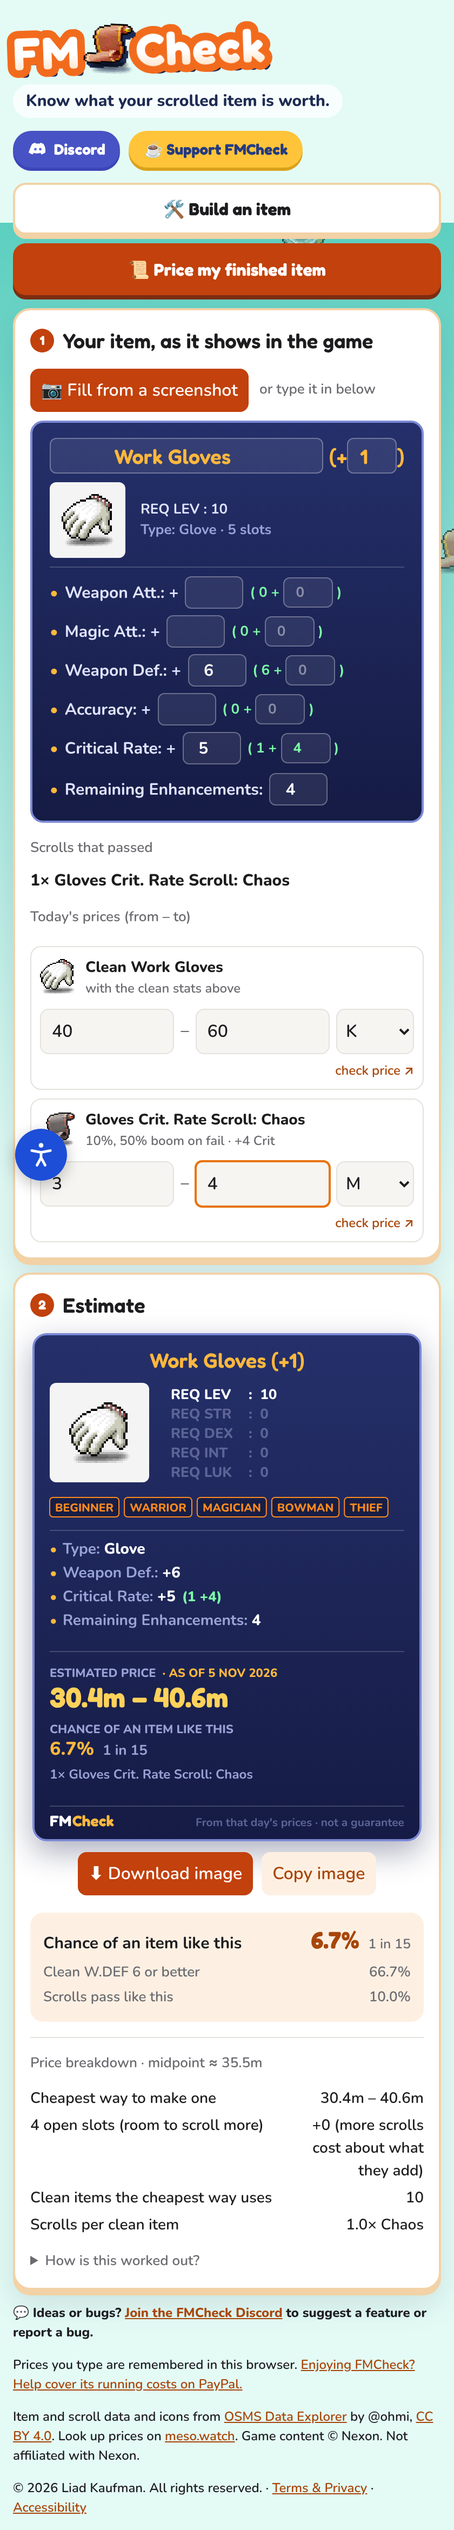
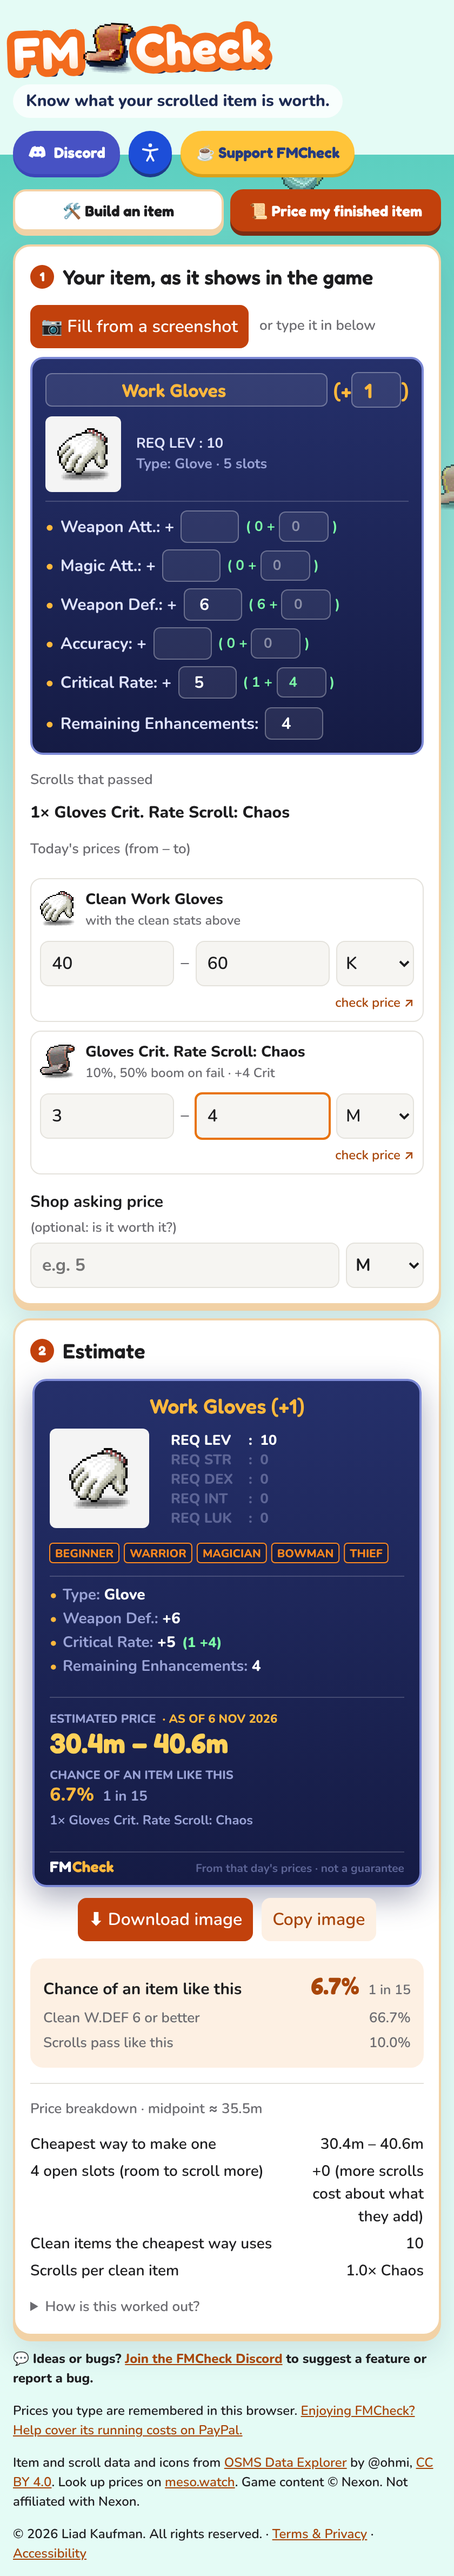
Finished items from photos: sturdier reading, suggestions, phone layout
- Screenshots are read up to three ways (auto, high-contrast, as-is) and
  the richest reading wins.
- Without a readable name, the item is picked from its stats only when
  the type also matches; otherwise 'Did you mean' suggestions are shown,
  and stats read before the item is known are filled in once it's picked.
- Fixed: stats were parsed after use, so readings without a name failed.
- Phones: tabs on one row; the accessibility button moved into the
  header row so it no longer covers text.

Claude-Session: https://claude.ai/code/session_01YWJchjg2KLfMMoYE3h5SnD

Changed region(s): [[0.0, 0.0, 1.0, 0.9983], [0.9595, 0.156, 1.0, 0.2496], [0.8667, 0.4056, 0.9286, 0.4368]]

diff --git a/js/reader.js b/js/reader.js
@@ -38,21 +38,19 @@ export function parseTooltip(text, equips) {
   }
   let confidence = item ? 1 : 0;
   if (!item) {
-    const title = lines.find((l) => /\(\s*\+\s*\d+\s*\)/.test(l)) || lines[0] || "";
-    const t = norm(title.replace(/\(.*$/, ""));
-    for (const e of equips) {
-      const s = similar(t, norm(e[1]));
-      if (s > confidence) { confidence = s; item = e; }
+    const titled = lines.filter((l) => /\(\s*\+\s*\d+\s*\)/.test(l));
+    for (const title of (titled.length ? titled : lines.slice(0, 4))) {
+      const t = norm(title.replace(/\(.*$/, ""));
+      if (t.length < 4) continue;
+      for (const e of equips) {
+        const sc = similar(t, norm(e[1]));
+        if (sc > confidence) { confidence = sc; item = e; }
+      }
     }
-    if (confidence < 0.45) item = null;
+    if (confidence < 0.45) { item = null; confidence = 0; }
   }
 
-  const upgrades = (() => { const m = lines.join(" ").match(/\(\s*\+\s*(\d{1,2})\s*\)/); return m ? +m[1] : null; })();
-  const left = (() => {
-    const m = lines.join(" ").match(/(?:remaining\s*enhance\w*|upgrades?\s*avail\w*|slots?\s*left)\D{0,6}(\d{1,2})/i);
-    return m ? +m[1] : null;
-  })();
-
+  // Stats first (needed below to guess the item when its name can't be read).
   const stats = {};
   for (const line of lines) {
     if (/^req|remaining|type\s*:/i.test(line)) continue;
@@ -66,7 +64,39 @@ export function parseTooltip(text, equips) {
     const gain = m[3] != null ? +m[3] : 0;
     stats[label[1]] = { total, base, gain };
   }
-  return { item, upgrades, left, stats, confidence };
+
+  // No name: rank the items whose own stats fit the clean values read. Pick one only when it's clear
+  // (two or more stats fit and the text names its type, e.g. "Type: Gloves"); otherwise offer suggestions.
+  let suggestions = [];
+  if (!item && Object.keys(stats).length) {
+    const own = Object.entries(stats).filter(([k]) => !["ACC", "EVA", "Speed", "Jump", "MAD"].includes(k) || stats[k].base);
+    const fits = [];
+    for (const e of equips) {
+      const base = e[5] || {};
+      let fit = 0, ok = true;
+      for (const [k, v] of own) {
+        if (!base[k]) { if (v.base) { ok = false; break; } continue; }
+        const range = Math.min(Math.ceil(base[k] * 0.1), ["PDD", "MDD", "MHP", "MMP"].includes(k) ? 10 : 5);
+        if (Math.abs(v.base - base[k]) > range) { ok = false; break; }
+        fit += 2 - Math.abs(v.base - base[k]) / (range || 1);
+      }
+      if (!ok || !fit) continue;
+      const typed = !!(e[3] && flat.includes(norm(e[3]))); // e.g. "Type: Glove"
+      fits.push({ e, fit: fit + (typed ? 3 : 0), typed });
+    }
+    fits.sort((a, b) => b.fit - a.fit);
+    const top = fits[0];
+    if (top && top.typed && own.length >= 2 && (!fits[1] || fits[1].fit < top.fit)) { item = top.e; confidence = 0.6; }
+    else suggestions = fits.slice(0, 6).map((f) => f.e);
+  }
+
+  const upgrades = (() => { const m = lines.join(" ").match(/\(\s*\+\s*(\d{1,2})\s*\)/); return m ? +m[1] : null; })();
+  const left = (() => {
+    const m = lines.join(" ").match(/(?:remaining\s*enhance\w*|upgrades?\s*avail\w*|slots?\s*left)\D{0,6}(\d{1,2})/i);
+    return m ? +m[1] : null;
+  })();
+
+  return { item, upgrades, left, stats, confidence, suggestions };
 }
 
 // ---------- text recognition in the browser ----------
@@ -88,8 +118,8 @@ function loadTesseract() {
 }
 
 // Game tooltips are light text on a dark panel; recognition reads dark text on light best.
-// Scale up, turn grey, flip to dark-on-light when the picture is mostly dark, and stretch the contrast.
-async function prepare(file) {
+// Each pass prepares the picture differently: "auto" flips dark pictures, "flip"/"keep" force it, "sharp" adds a hard threshold.
+async function prepare(file, how = "auto") {
   const img = await createImageBitmap(file);
   const scale = Math.min(3, Math.max(1, 1600 / img.width));
   const c = document.createElement("canvas");
@@ -101,28 +131,43 @@ async function prepare(file) {
   const d = ctx.getImageData(0, 0, c.width, c.height), px = d.data;
   let sum = 0;
   for (let i = 0; i < px.length; i += 4) sum += 0.299 * px[i] + 0.587 * px[i + 1] + 0.114 * px[i + 2];
-  const dark = sum / (px.length / 4) < 128;
+  const mean = sum / (px.length / 4);
+  const flip = how === "flip" || how === "sharp" ? true : how === "keep" ? false : mean < 128;
   for (let i = 0; i < px.length; i += 4) {
     let g = 0.299 * px[i] + 0.587 * px[i + 1] + 0.114 * px[i + 2];
-    if (dark) g = 255 - g;
-    g = Math.max(0, Math.min(255, (g - 60) * 1.6));
+    if (flip) g = 255 - g;
+    g = how === "sharp" ? (g > 150 ? 255 : 0) : Math.max(0, Math.min(255, (g - 60) * 1.6));
     px[i] = px[i + 1] = px[i + 2] = g;
   }
   ctx.putImageData(d, 0, 0);
   return c;
 }
 
-// file: an image the user picked or took. onProgress(0..1, label). -> recognized text
-export async function readImage(file, onProgress = () => {}) {
+// How much a reading found (used to keep the best of several passes).
+export function richness(p) {
+  return (p.item ? 6 * (p.confidence || 1) : 0) + (p.upgrades != null ? 1 : 0) + (p.left != null ? 1 : 0) + Object.keys(p.stats).length;
+}
+
+// file: an image the user picked or took. parse(text) -> parsed reading. onProgress(0..1, label).
+// Tries up to three ways of preparing the picture and returns the richest reading: { text, parsed }.
+export async function readImage(file, parse, onProgress = () => {}) {
   onProgress(0.02, "Loading the text reader…");
   const T = await loadTesseract();
-  const canvas = await prepare(file);
-  const res = await T.recognize(canvas, "eng", {
-    logger: (m) => {
-      if (m.status === "recognizing text") onProgress(0.3 + 0.7 * m.progress, "Reading the item…");
-      else if (typeof m.progress === "number") onProgress(0.05 + 0.25 * m.progress, "Loading the text reader…");
-    },
-  });
+  const passes = ["auto", "sharp", "keep"];
+  let best = null;
+  for (let i = 0; i < passes.length; i++) {
+    const canvas = await prepare(file, passes[i]);
+    const res = await T.recognize(canvas, "eng", {
+      logger: (m) => {
+        if (m.status === "recognizing text") onProgress((i + m.progress) / passes.length, i ? "Trying again for a clearer read…" : "Reading the item…");
+        else if (!i && typeof m.progress === "number") onProgress(0.02 + 0.1 * m.progress, "Loading the text reader…");
+      },
+    });
+    const text = res.data.text || "";
+    const parsed = parse(text);
+    if (!best || richness(parsed) > richness(best.parsed)) best = { text, parsed };
+    if (best.parsed.item && best.parsed.confidence >= 0.8 && Object.keys(best.parsed.stats).length && best.parsed.left != null) break; // good enough
+  }
   onProgress(1, "Done");
-  return res.data.text || "";
+  return best;
 }

diff --git a/js/app.js b/js/app.js
@@ -1,8 +1,8 @@
-import { iconUrl, priceLink, DONATE_URL, DISCORD_URL } from "./config.js?v=1e2658a2";
-import { STATS, STAT_LABEL, statRange, rollAtLeast, inferScrolls, groupOdds, allocateFailures, finalStats, openSlotValue, cheapestRoute, failedItemValue, mesos, UNITS, readRange } from "./calc.js?v=1e2658a2";
-import { getPrice, setPrice } from "./prices.js?v=1e2658a2";
-import { parseTooltip, readImage } from "./reader.js?v=1e2658a2";
-import { drawCard, cardBlob } from "./card.js?v=1e2658a2";
+import { iconUrl, priceLink, DONATE_URL, DISCORD_URL } from "./config.js?v=fb79aca4";
+import { STATS, STAT_LABEL, statRange, rollAtLeast, inferScrolls, groupOdds, allocateFailures, finalStats, openSlotValue, cheapestRoute, failedItemValue, mesos, UNITS, readRange } from "./calc.js?v=fb79aca4";
+import { getPrice, setPrice } from "./prices.js?v=fb79aca4";
+import { parseTooltip, readImage } from "./reader.js?v=fb79aca4";
+import { drawCard, cardBlob } from "./card.js?v=fb79aca4";
 
 const $ = (id) => document.getElementById(id);
 const icon = iconUrl;
@@ -446,7 +446,7 @@ function update() {
 // The price estimate; returns { lo, hi } or null when it can't be worked out yet.
 function renderEstimate(used) {
   const out = $("estimate");
-  if (!cleanPrice) { out.innerHTML = `<p class="hint">Enter the clean item price (step 1) to get an estimate.</p>`; return null; }
+  if (!cleanPrice) { out.innerHTML = `<p class="hint">Enter the clean item price ${mode === "f" ? "above" : "(step 1)"} to get an estimate.</p>`; return null; }
 
   // What the item gained, per scroll family, and the scrolls the user entered (with a price).
   const needs = {};
@@ -645,6 +645,30 @@ function renderFinItem() {
   </div>`).join("");
 }
 
+// "Did you mean…" when the picture's item name couldn't be read.
+function renderSuggestions(list) {
+  const box = $("finSuggest");
+  box.innerHTML = list && list.length ? `<span class="label">Did you mean:</span> ${list.map((e) =>
+    `<button type="button" class="suggest" data-name="${esc(e[1])}"><img src="${icon(e[0])}" alt="" /> ${esc(e[1])}</button>`).join("")}` : "";
+}
+$("finSuggest").addEventListener("click", (e) => {
+  const b = e.target.closest(".suggest");
+  if (!b) return;
+  $("finName").value = b.dataset.name;
+  renderSuggestions([]);
+  onFinInput({ target: $("finName") });
+});
+
+// Put read values into the tooltip lines (those that exist for the current item).
+function fillFinStats(stats) {
+  for (const [k, v] of Object.entries(stats || {})) {
+    const line = $("finStats").querySelector(`.tt-line[data-k="${k}"]`);
+    if (!line) continue;
+    line.querySelector('[data-f="total"]').value = v.total;
+    line.querySelector('[data-f="gain"]').value = v.gain || "";
+  }
+}
+
 function readFin() {
   const num = (el) => (el && el.value !== "" ? Math.max(0, Math.floor(+el.value)) : null);
   const e = fin.item;
@@ -665,6 +689,8 @@ function onFinInput(e) {
     if (it === fin.item) return;
     fin.item = it;
     renderFinItem();
+    if (it) renderSuggestions([]);
+    if (it && fin.pending) { fillFinStats(fin.pending); fin.pending = null; } // stats read from a picture before the item was known
   }
   if (!fin.item) {
     $("finScrolls").innerHTML = `<p class="hint">Type the item's name as it shows in the game, then its stats.</p>`;
@@ -798,23 +824,23 @@ $("finFile").addEventListener("change", async (e) => {
   const st = $("finStatus"), prog = $("finProg");
   prog.hidden = false; prog.value = 0; st.textContent = "Reading your item…";
   try {
-    const text = await readImage(file, (v, label) => { prog.value = v; st.textContent = label; });
-    const p = parseTooltip(text, equips);
+    const { parsed: p } = await readImage(file, (text) => parseTooltip(text, equips), (v, label) => { prog.value = v; st.textContent = label; });
     if (p.item) { $("finName").value = p.item[1]; fin.item = p.item; renderFinItem(); }
     $("finUp").value = p.upgrades ?? "";
     $("finLeft").value = p.left ?? "";
-    for (const [k, v] of Object.entries(p.stats)) {
-      const line = $("finStats").querySelector(`.tt-line[data-k="${k}"]`);
-      if (!line) continue;
-      line.querySelector('[data-f="total"]').value = v.total;
-      line.querySelector('[data-f="gain"]').value = v.gain || "";
-    }
-    const got = [p.item ? "the item" : null, p.upgrades != null ? "(+N)" : null, p.left != null ? "slots left" : null,
-      Object.keys(p.stats).length ? `${Object.keys(p.stats).length} stats` : null].filter(Boolean);
-    st.textContent = got.length ? `Read ${got.join(", ")}. Check the numbers below and fix anything that's off.`
-      : "Couldn't read much from this picture. A straight screenshot works best; you can also type it in.";
+    fin.pending = p.item ? null : p.stats; // filled in once the item is picked
+    fillFinStats(p.stats);
+    const n = Object.keys(p.stats).length;
+    const got = [p.upgrades != null ? "(+N)" : null, p.left != null ? "slots left" : null, n ? `${n} stat${n > 1 ? "s" : ""}` : null].filter(Boolean);
+    renderSuggestions(p.item ? [] : p.suggestions);
+    st.textContent = !p.item && n ? `Read ${got.join(", ")}, but not the item's name. Pick it${p.suggestions.length ? " below" : " above"} and we'll fill in the rest.`
+      : p.item && p.confidence < 0.8 ? `We think it's ${p.item[1]} (from its stats). Check it and fix anything that's off.`
+      : got.length || p.item ? `Read ${[p.item ? "the item" : null, ...got].filter(Boolean).join(", ")}. Check the numbers and fix anything that's off.`
+      : "Couldn't read this picture. A straight screenshot of the item's window works best; you can also type it in.";
     onFinInput();
-  } catch {
+    if (!p.item) $("finName").focus();
+  } catch (err) {
+    console.error("FMCheck reader:", err);
     st.textContent = "Couldn't read the picture here. You can type the numbers in instead.";
   } finally { prog.hidden = true; }
 });

diff --git a/index.html b/index.html
@@ -32,7 +32,7 @@
   <link rel="apple-touch-icon" href="assets/favicon-180.png" />
   <link rel="preload" href="assets/fonts/fredoka-latin-700-normal.woff2" as="font" type="font/woff2" crossorigin />
   <link rel="preload" href="assets/fonts/nunito-latin-600-normal.woff2" as="font" type="font/woff2" crossorigin />
-  <link rel="stylesheet" href="css/style.css?v=1e2658a2" />
+  <link rel="stylesheet" href="css/style.css?v=fb79aca4" />
 </head>
 <body>
   <a class="skip" href="#itemSearch">Skip to the calculator</a>
@@ -75,6 +75,19 @@
       <a class="discord" data-discord href="https://discord.gg/hWYs9vxhRv" target="_blank" rel="noopener">
         <svg viewBox="0 0 24 24" width="18" height="18" aria-hidden="true"><path fill="currentColor" d="M5 5.5C7 4.4 9 4 9 4l.6 1.2a15 15 0 0 1 4.8 0L15 4s2 .4 4 1.5c2 3 2.6 6.4 2.4 10.5-1.6 1.3-3.3 2-5 2.5l-1-1.7c.7-.3 1.3-.6 1.9-1-3.8 1.8-8.8 1.8-12.6 0 .6.4 1.2.7 1.9 1l-1 1.7c-1.7-.5-3.4-1.2-5-2.5C2.4 11.9 3 8.5 5 5.5Z"/><circle cx="9" cy="12" r="1.6" fill="#5865f2"/><circle cx="15" cy="12" r="1.6" fill="#5865f2"/></svg>
         Discord</a>
+      <span class="a11y-wrap">
+    <button id="a11yBtn" class="a11y-btn" type="button" aria-expanded="false" aria-controls="a11yPanel" aria-label="Accessibility options">
+        <svg viewBox="0 0 24 24" width="20" height="20" aria-hidden="true"><circle cx="12" cy="4" r="2" fill="currentColor"/><path d="M4 8.5 12 10l8-1.5M12 10v4.5m0 0-3.5 6.5m3.5-6.5 3.5 6.5" fill="none" stroke="currentColor" stroke-width="2.2" stroke-linecap="round" stroke-linejoin="round"/></svg>
+      </button>
+      <div id="a11yPanel" class="a11y-panel" role="dialog" aria-label="Accessibility options" hidden>
+        <b>Accessibility</b>
+        <label><input type="checkbox" data-a11y="big" /> Larger text</label>
+        <label><input type="checkbox" data-a11y="still" /> Stop animations</label>
+        <label><input type="checkbox" data-a11y="contrast" /> High contrast</label>
+        <label><input type="checkbox" data-a11y="links" /> Underline links</label>
+        <a href="terms.html#accessibility">Accessibility statement</a>
+      </div>
+      </span>
       <a class="donate" data-donate hidden target="_blank" rel="noopener" title="Voluntary, helps cover the site's running costs">☕ Support FMCheck</a>
     </div>
   </header>
@@ -96,6 +109,7 @@
       </div>
       <p id="finStatus" class="reader-status" role="status"></p>
       <progress id="finProg" max="1" value="0" hidden></progress>
+      <div id="finSuggest" class="suggestions"></div>
       <div class="tt-box" id="finBox">
         <div class="tt-title">
           <input id="finName" list="equipNames" placeholder="Item name" autocomplete="off" aria-label="Item name" />
@@ -260,18 +274,7 @@ chance = clean roll × scrolls</pre>
 
   <div id="toast" class="toast" role="status" hidden></div>
 
-  <!-- Accessibility options: saved in this browser. -->
-  <button id="a11yBtn" class="a11y-btn" type="button" aria-expanded="false" aria-controls="a11yPanel" aria-label="Accessibility options">
-    <svg viewBox="0 0 24 24" width="26" height="26" aria-hidden="true"><circle cx="12" cy="4" r="2" fill="currentColor"/><path d="M4 8.5 12 10l8-1.5M12 10v4.5m0 0-3.5 6.5m3.5-6.5 3.5 6.5" fill="none" stroke="currentColor" stroke-width="2.2" stroke-linecap="round" stroke-linejoin="round"/></svg>
-  </button>
-  <div id="a11yPanel" class="a11y-panel" role="dialog" aria-label="Accessibility options" hidden>
-    <b>Accessibility</b>
-    <label><input type="checkbox" data-a11y="big" /> Larger text</label>
-    <label><input type="checkbox" data-a11y="still" /> Stop animations</label>
-    <label><input type="checkbox" data-a11y="contrast" /> High contrast</label>
-    <label><input type="checkbox" data-a11y="links" /> Underline links</label>
-    <a href="terms.html#accessibility">Accessibility statement</a>
-  </div>
-  <script type="module" src="js/app.js?v=1e2658a2"></script>
+
+  <script type="module" src="js/app.js?v=fb79aca4"></script>
 </body>
 </html>

diff --git a/css/style.css b/css/style.css
@@ -383,12 +383,13 @@ footer .community { font-weight: 800; }
 .skip { position: absolute; left: 12px; top: -60px; z-index: 50; padding: 10px 14px; border-radius: 8px;
   background: var(--btn-bg); color: var(--btn-text); font-weight: 800; text-decoration: none; }
 .skip:focus { top: 12px; }
+.a11y-wrap { position: relative; display: inline-flex; }
 .a11y-btn {
-  position: fixed; left: 14px; bottom: 14px; z-index: 30; width: 48px; height: 48px; padding: 0; border-radius: 50%;
-  display: grid; place-items: center; background: #1d4ed8; color: #fff; box-shadow: 0 4px 14px rgba(0,0,0,.25);
+  width: 40px; height: 40px; padding: 0; border-radius: 50%;
+  display: grid; place-items: center; background: #1d4ed8; color: #fff; box-shadow: 0 3px 0 #1e3a8a;
 }
 .a11y-panel {
-  position: fixed; left: 14px; bottom: 72px; z-index: 30; width: 230px; padding: 14px;
+  position: absolute; right: 0; top: 48px; z-index: 40; width: 230px; padding: 14px;
   display: grid; gap: 10px; border-radius: 12px; background: var(--card); color: var(--text);
   border: 2px solid var(--card-edge); box-shadow: 0 10px 30px rgba(0,0,0,.25);
 }
@@ -487,3 +488,18 @@ html.old-address .moved { display: block; }
   .verdict.fair { background: #2a1d0b; color: #fcd9a6; }
   .verdict.bad { background: #2c0f0f; color: #fecaca; }
 }
+
+/* phones: tabs side by side, compact */
+@media (max-width: 560px) {
+  .tabs { flex-wrap: nowrap; gap: 6px; }
+  .tabs button { flex: 1 1 0; padding: 9px 6px; font-size: 14px; }
+  .tt-box { padding: 12px; }
+  .tt-title #finName { font-size: 17px; }
+  .a11y-panel { right: auto; left: 0; }
+}
+
+.suggestions { display: flex; flex-wrap: wrap; gap: 6px; align-items: center; margin-bottom: 10px; }
+.suggestions:empty { display: none; }
+.suggest { display: inline-flex; align-items: center; gap: 6px; padding: 6px 10px; background: var(--card); color: var(--text);
+  border: 2px solid var(--card-edge); border-radius: 999px; font-weight: 700; }
+.suggest img { width: 22px; height: 22px; object-fit: contain; image-rendering: pixelated; }

diff --git a/terms.html b/terms.html
@@ -6,7 +6,7 @@
   <title>FMCheck · Terms & Privacy</title>
   <meta name="description" content="FMCheck terms of use and privacy: what the tool is, what it isn't, and what data it keeps (almost none)." />
   <link rel="icon" type="image/png" sizes="32x32" href="assets/favicon-32.png" />
-  <link rel="stylesheet" href="css/style.css?v=1e2658a2" />
+  <link rel="stylesheet" href="css/style.css?v=fb79aca4" />
   <style>
     .legal h2 { margin-top: 22px; }
     .legal h2:first-child { margin-top: 0; }
